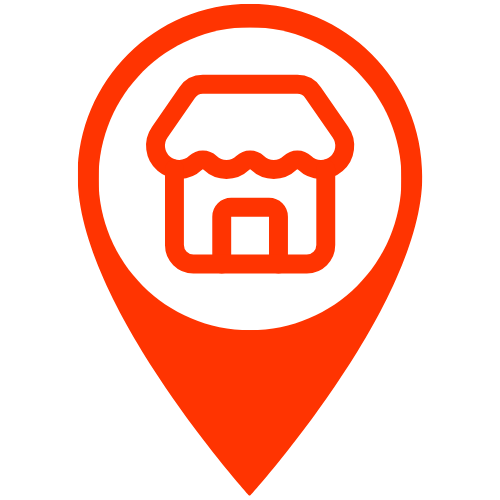
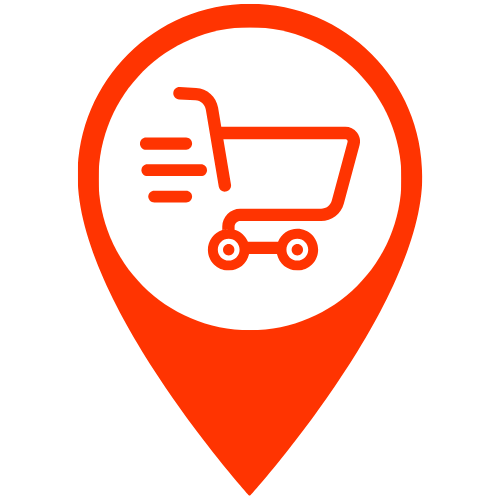
fix(branding): reemplaza iconos placeholder y corrige recorte del splash nativo
Actualiza icon.png, android-icon-*, favicon.png y splash-icon.png con el
branding definitivo, ajustando el contenido del splash para que quepa
dentro del safe zone circular que exige la Splash Screen API de Android
(antes se recortaban "RIDERS" y la "O" final). Tambien agrega el logo en
app/index.tsx mientras se hidrata la sesion, para evitar la pantalla en
blanco entre el splash nativo y la app.

Changed region(s): [[0.27, 0.15, 0.72, 0.57]]

diff --git a/app/index.tsx b/app/index.tsx
@@ -1,6 +1,6 @@
 import { router } from "expo-router";
 import { useEffect } from "react";
-import { View } from "react-native";
+import { Image, View } from "react-native";
 
 import { ROUTES } from "@/constants/routes";
 import { useAuthStore } from "@/features/auth/store/useAuthStore";
@@ -19,5 +19,13 @@ export default function Index() {
     router.replace(isAuthenticated ? ROUTES.APP.HOME : ROUTES.AUTH.LOGIN);
   }, [isHydrated, isAuthenticated]);
 
-  return <View className="flex-1 bg-white" />;
+  return (
+    <View className="flex-1 items-center justify-center bg-white">
+      <Image
+        source={require("@/assets/images/splash-icon.png")}
+        resizeMode="contain"
+        style={{ width: 200, height: 200 }}
+      />
+    </View>
+  );
 }
